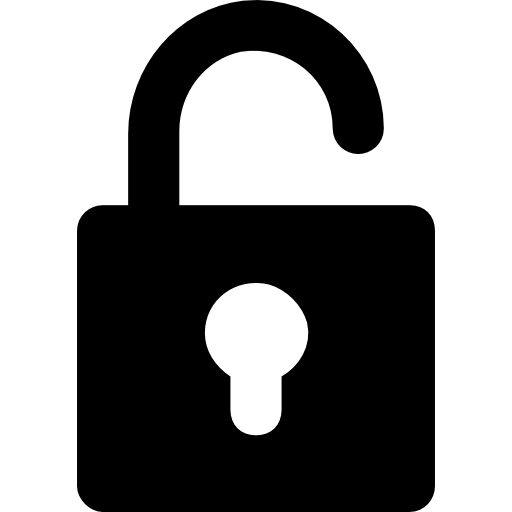
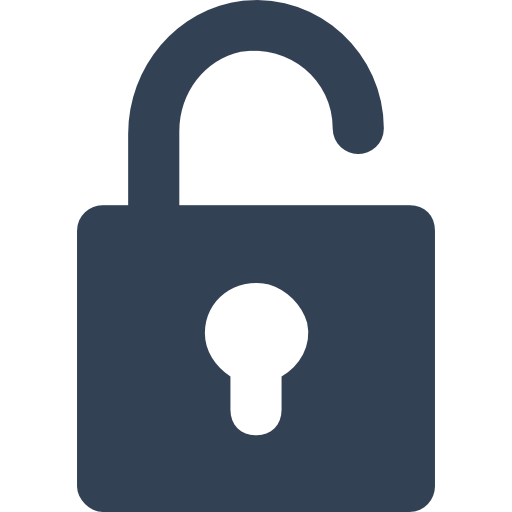
owner getur stillt hvort orð sé sýnilegt fyrir hinum leikmönnum

diff --git a/src/lib/modals/SettingsModal.svelte b/src/lib/modals/SettingsModal.svelte
@@ -10,17 +10,12 @@
     let {isOpen, close }: ModalProps = $props() 
     let isLoading = $state(false)
     let errMessage = $state("")
-    let gameIsJoinable = $state(true)
 
-    onMount(() => {
-        if($game) {
-            gameIsJoinable = $game.joinable
-        }
-    })
 
-    function toggleJoinable() {
+    async function toggleJoinable() {
         if($game) {
-            api.put(`setGameJoinability/${$game.code}/${$game.joinable}`).catch(err => {
+            isLoading = true
+            await api.put(`setGameJoinability/${$game.code}/${$game.joinable}`).catch(err => {
 
                 if(err.code == "ECONNABORTED") {
                     errMessage = "Þjónn var of lengi a svara"
@@ -29,11 +24,29 @@
                 }
                 $game.joinable = !$game.joinable // set value back to what it was if this fails
             })
+            isLoading = false
+        }
+    }
+
+    async function toggleWordVisibility() {
+        if($game) {
+            isLoading = true
+            await api.put(`setWordVisibility/${$game.code}/${$game.wordIsVisible}`).catch(err => {
+
+                if(err.code == "ECONNABORTED") {
+                    errMessage = "Þjónn var of lengi a svara"
+                } else {
+                    errMessage = err.response.data
+                }
+                $game.wordIsVisible = !$game.wordIsVisible // set value back to what it was if this fails
+            })
+            isLoading = false
         }
     }
 
     async function kickPlayer(name: string) {
         if($game) {
+            if(isLoading) return
             isLoading = true;
             await api.put(`leaveGame/${$game.code}/`, {name: name}).catch(err => {
 
@@ -52,27 +65,32 @@
 
 {#if isOpen && $game}
 <div role="dialog" class="modal">
-    <div class="pointer-events-auto bg-slate-200 rounded-2xl text-slate-700 p-4" transition:fade|global={{duration: 150}}>
-        {#if !isLoading}
-            <div class='flex flex-col items-center'>
-                <p class='text-xl mb-4'>{$game.code}</p>
-                <div class='flex w-full justify-between mb-6'>
-                    <p class='mr-12'>Opna fyrir join</p>
-                    <ToggleSwitch bind:value={$game.joinable} onChange={toggleJoinable}/>
-                </div>
-                {#each $game.players as player}
-                    {#if player.name != $game.owner}
-                    <div class='flex items-center my-2 w-full justify-between'>
-                        <p class='mr-12'>{player.name}</p>
-                        <button class='bg-rose-600 text-white py-1 text-sm' onclick={() => kickPlayer(player.name)}>Reka úr leik</button>
-                    </div>
-                    {/if}
-                {/each}
-                <p class='text-rose-500'>{errMessage}</p>
+    <div class="pointer-events-auto bg-slate-200 rounded-2xl text-slate-700 p-4 relative" transition:fade|global={{duration: 150}}>
+
+        <div class='flex flex-col items-center' class:opacity-30={isLoading}>
+            <p class='text-xl mb-4'>{$game.code}</p>
+            <div class='flex w-full justify-between mb-6'>
+                <p class='mr-12'>Opna fyrir join</p>
+                <ToggleSwitch bind:value={$game.joinable} onChange={toggleJoinable} bind:disabled={isLoading}/>
             </div>
-        {:else}
-            <LoadingIndicator bind:isLoading/>
-        {/if}
+            <div class='flex w-full justify-between mb-6'>
+                <p class='mr-12'>Birta Orð</p>
+                <ToggleSwitch bind:value={$game.wordIsVisible} onChange={toggleWordVisibility} bind:disabled={isLoading}/>
+            </div>
+            {#each $game.players as player}
+                {#if player.name != $game.owner}
+                <div class='flex items-center my-2 w-full justify-between'>
+                    <p class='mr-12'>{player.name}</p>
+                    <button class='bg-rose-600 text-white py-1 text-sm' onclick={() => kickPlayer(player.name)}>Reka úr leik</button>
+                </div>
+                {/if}
+            {/each}
+            <p class='text-rose-500'>{errMessage}</p>
+        </div>
+        <div class='absolute top-1/3 left-1/3'>
+            <LoadingIndicator bind:isLoading />
+        </div>
+
     </div>
 </div>
 {/if}

diff --git a/src/lib/views/GameView.svelte b/src/lib/views/GameView.svelte
@@ -9,6 +9,7 @@
 	import Scoreboard from "$compopnents/scoreboard.svelte";
     import padlock from "$assets/padlock.png"
     import openPadlock from "$assets/open-padlock.png"
+    import next from "$assets/next.png"
     import LoadingIndicator from '$compopnents/LoadingIndicator.svelte';
     import { compareArrays } from '$common';
 	import { setupWebsocketConnection } from '$lib/websocket';
@@ -177,13 +178,13 @@
                     <!-- Player definitions -->
                     <div class='h-full w-full flex items-center flex-col overflow-auto my-4'>
                         {#each $game.definitions as pd (pd.player)}
-                            <div class='bg-slate-200 rounded-xl w-full py-1 px-2 my-1 text-center text-slate-600' transition:slide|global animate:flip={{duration: 400}}>
+                            <div class='bg-slate-200 rounded-xl w-full py-1 px-2 my-1 text-center text-slate-600' in:slide|global animate:flip={{duration: 400}}>
                                 <p class='font-semibold text-sm'>{pd.player}</p>
                                 <p>{pd.definition}</p>
                             </div>
                         {/each}
                     </div>
-                    <button class='my-1 bg-transparent text-slate-200' onclick={shufflePlayerDefinitions}>Stokka</button>
+                    <button class='my-1 bg-pink-300 hover:brightness-90 text-sm px-8' onclick={shufflePlayerDefinitions}>Stokka</button>
                 </div>
 
                 <div class='w-full flex flex-col items-center'>
@@ -196,15 +197,18 @@
                             <button onclick={toggleSubmissions} class='rounded-r-none w-1/3 flex justify-center'><img src={padlock} width="25" height="25" alt="padlock"></button>
                         {/if}
                         <button onclick={setScores} class='rounded-none border-x border-slate-400 grow'>Stig</button>
-                        <button onclick={nextRound} class='rounded-l-none font-bold w-1/3'>&gt;&gt;</button>
+                        <button onclick={nextRound} class='rounded-l-none font-bold w-1/3 flex justify-center'><img src={next} alt="next" width="25"></button>
                     </div>
                 </div>
             </div>
 
         {:else}
-            <div class='flex flex-col h-full items-center overflow-auto justify-between'>
-                <div class='flex flex-col items-center text-md min-h-16'>
-                    <h3 class='mb-4'>{$game.currentPlayer} á leik</h3>
+            <div class='flex flex-col h-full items-center overflow-auto justify-between w-full'>
+                <div class='flex flex-col items-center text-md min-h-34'>
+                    <h3 class=''>{$game.currentPlayer} á orðið</h3>
+                    {#if $game.wordIsVisible}
+                        <p>orðið er {$game.currentWord.word}</p>
+                    {/if}
                     {#if submittedDefinition}
                         <p class='border-b border-slate-200/50 pb-1 px-12 text-md'>Mín skýring</p>
                     {/if}
@@ -213,10 +217,10 @@
                 <div class='flex flex-col w-full overflow-auto'>
                     <Scoreboard players={$game.players}/>
                 </div>
-                <div>
+                <div class='w-full'>
                     <p class='text-amber-400 text-center h-8 mt-2'>{$errMessage}</p>
-                    <div class='flex'>
-                        <textarea placeholder="Mín skýring" bind:value={myDefinition} class=''></textarea>
+                    <div class='flex w-full'>
+                        <textarea placeholder="Mín skýring" bind:value={myDefinition} class='grow'></textarea>
                         <button onclick={submitDefinition} class='rounded-xl ml-2'>Skila</button>
                     </div> 
                 </div>

diff --git a/src/lib/websocket.ts b/src/lib/websocket.ts
@@ -50,20 +50,20 @@ export function setupWebsocketConnection(){
                     if(g.currentPlayer == get(myUsername)){
                         getWord()
                     }
-                    else {
-                        g.currentWord = {word: `${g.currentPlayer} á leik`, definition: ''}
+                    else if(g.wordIsVisible){
+                        g.currentWord.word = parts[2].trim()
                     }
                     break;
 
                 case "Definition":
-                    let player = parts[1]
-                    let definition = parts[2]
+                    let player = parts[1].trim()
+                    let definition = parts[2].trim()
                     g.addNewPlayerDefinition(player, definition)
                     break;
 
                 case "Scores":
                     for(let i = 1; i < parts.length; i += 2){ //i = 1 cuz fyrst element is "Score", rest is [{player}, {score}, {player}, {score}, ...]
-                        let playerName = parts[i]
+                        let playerName = parts[i].trim()
                         let score = parseInt(parts[i+1])
                         let idx = g.players.findIndex(p => p.name.trim() == playerName.trim())
                         if(idx > -1) g.players[idx].points = score
@@ -87,6 +87,20 @@ export function setupWebsocketConnection(){
                         ws.close()
                     }
                     break;
+                
+                case "Show word":
+                    g.wordIsVisible = true
+                    let word = parts[1]
+                    if(g.currentPlayer != get(myUsername)){
+                        g.currentWord.word = word
+                    }
+                    break;
+
+                case "Hide word":
+                    g.wordIsVisible = false
+                    if(g.currentPlayer != get(myUsername)){
+                        g.currentWord.word = ''
+                    }
             }
             game.set(g)
         }

diff --git a/src/lib/views/HomeView.svelte b/src/lib/views/HomeView.svelte
@@ -14,6 +14,7 @@
             $webSocketShouldBeClosed = true
             $webSocket.close()
         }
+        $errMessage = ''
     })
 
     async function createGame(){
@@ -23,7 +24,8 @@
         isLoading = true;
         $errMessage = ''
         await api.put(`createNewGame/${$myUsername}`).then(res => {
-            $game = new Game(res.data, $myUsername, [{name: $myUsername, points: 0}], $myUsername, [], {word: '', definition: ''}, true, false, false);
+                            // code        owner        players                     currentPlayer definitions   currentWord            joinable  word_visible  hasStarted   openForSubmissions             
+            $game = new Game(res.data, $myUsername, [{name: $myUsername, points: 0}], $myUsername,    [],    {word: '', definition: ''}, false,     false,        false,    false);
             $webSocketShouldBeClosed = false
             $webSocket = setupWebsocketConnection()
 
@@ -46,7 +48,7 @@
         isLoading = true;
         $errMessage = ''
         await api.put(`joinGame/${code}`, {username: $myUsername}).then(res => {
-            $game = new Game(res.data.id, res.data.owner, res.data.players, res.data.current_player, res.data.player_definitions, res.data.current_word, res.data.joinable, res.data.has_started, res.data.open_for_submissions)
+            $game = new Game(res.data.id, res.data.owner, res.data.players, res.data.current_player, res.data.player_definitions, res.data.current_word, res.data.joinable, res.data.wordIsVisible, res.data.has_started, res.data.open_for_submissions)
             $webSocketShouldBeClosed = false
             $webSocket = setupWebsocketConnection()
 

diff --git a/src/lib/components/ToggleSwitch.svelte b/src/lib/components/ToggleSwitch.svelte
@@ -1,23 +1,19 @@
 <script lang='ts'>
 
-    let {/*option1, option2,*/ value = $bindable(), onChange} : {/*option1:string, option2:string,*/ value:boolean, onChange:Function} = $props(); //width er til að hafa fast width því annars stækkar það þegar maður togglar því valda optionið verður bold og því breiðara og það stækkar þá líka containerinn sem toggleswitchinn er í
+    let {/*option1, option2,*/ value = $bindable(), disabled = $bindable(), onChange} : {/*option1:string, option2:string,*/ value:boolean, disabled?: boolean, onChange:Function} = $props(); //width er til að hafa fast width því annars stækkar það þegar maður togglar því valda optionið verður bold og því breiðara og það stækkar þá líka containerinn sem toggleswitchinn er í
 
 
-    /*function click(){
-        
-        if(value == option1){
-            value = option2
-        }
-        else{
-            value = option1
-        }
-    }*/
+    function click(){
+		if(disabled) return
+		value = !value;
+		onChange()
+    }
 </script>
 
 <div class='flex select-none items-center'>
     <!--<p class={`mr-3 w-10 ${option1 == value ? 'font-semibold': ''}`}>{option1}</p>-->
     <label class="switch">
-        <input type="checkbox" checked={value == false}  onclick={() => {value = !value; onChange()}}/>
+        <input type="checkbox" checked={value == false}  onclick={click}/>
         <span class={`slider transition duration-200 ${value ? 'bg-emerald-400' : 'bg-slate-300'}`}></span>
     </label>
     <!--<p class={`ml-2 w-10 ${option2 == value ? 'font-semibold': ''}`}>{option2}</p>-->

diff --git a/src/lib/Classes/Game.ts b/src/lib/Classes/Game.ts
@@ -9,10 +9,11 @@ export class Game {
     definitions: Definition[]
     currentWord: Word
     joinable: boolean
+    wordIsVisible: boolean
     hasStarted: boolean
     openForSubmissions: boolean
 
-    public constructor(code: string, owner: string, players: Player[], currentPlayer: string, definitions: Definition[], currentWord: Word, joinable: boolean, hasStarted: boolean, openForSubmissions: boolean) {
+    public constructor(code: string, owner: string, players: Player[], currentPlayer: string, definitions: Definition[], currentWord: Word, joinable: boolean, wordIsVisible: boolean, hasStarted: boolean, openForSubmissions: boolean) {
         this.code = code
         this.owner = owner
         this.players = players
@@ -20,6 +21,7 @@ export class Game {
         this.definitions = definitions
         this.currentWord = currentWord
         this.joinable = joinable
+        this.wordIsVisible = wordIsVisible
         this.hasStarted = hasStarted
         this.openForSubmissions = openForSubmissions
     }
@@ -33,6 +35,7 @@ export class Game {
             data.definitions,
             data.currentWord,
             data.joinable,
+            data.wordIsVisible,
             data.hasStarted,
             data.openForSubmissions
         )

diff --git a/src/routes/+page.svelte b/src/routes/+page.svelte
@@ -62,6 +62,6 @@
   }
 
   #app {
-    width: min(100%, 40rem)
+    width: min(100%, 30rem)
   }
 </style>
